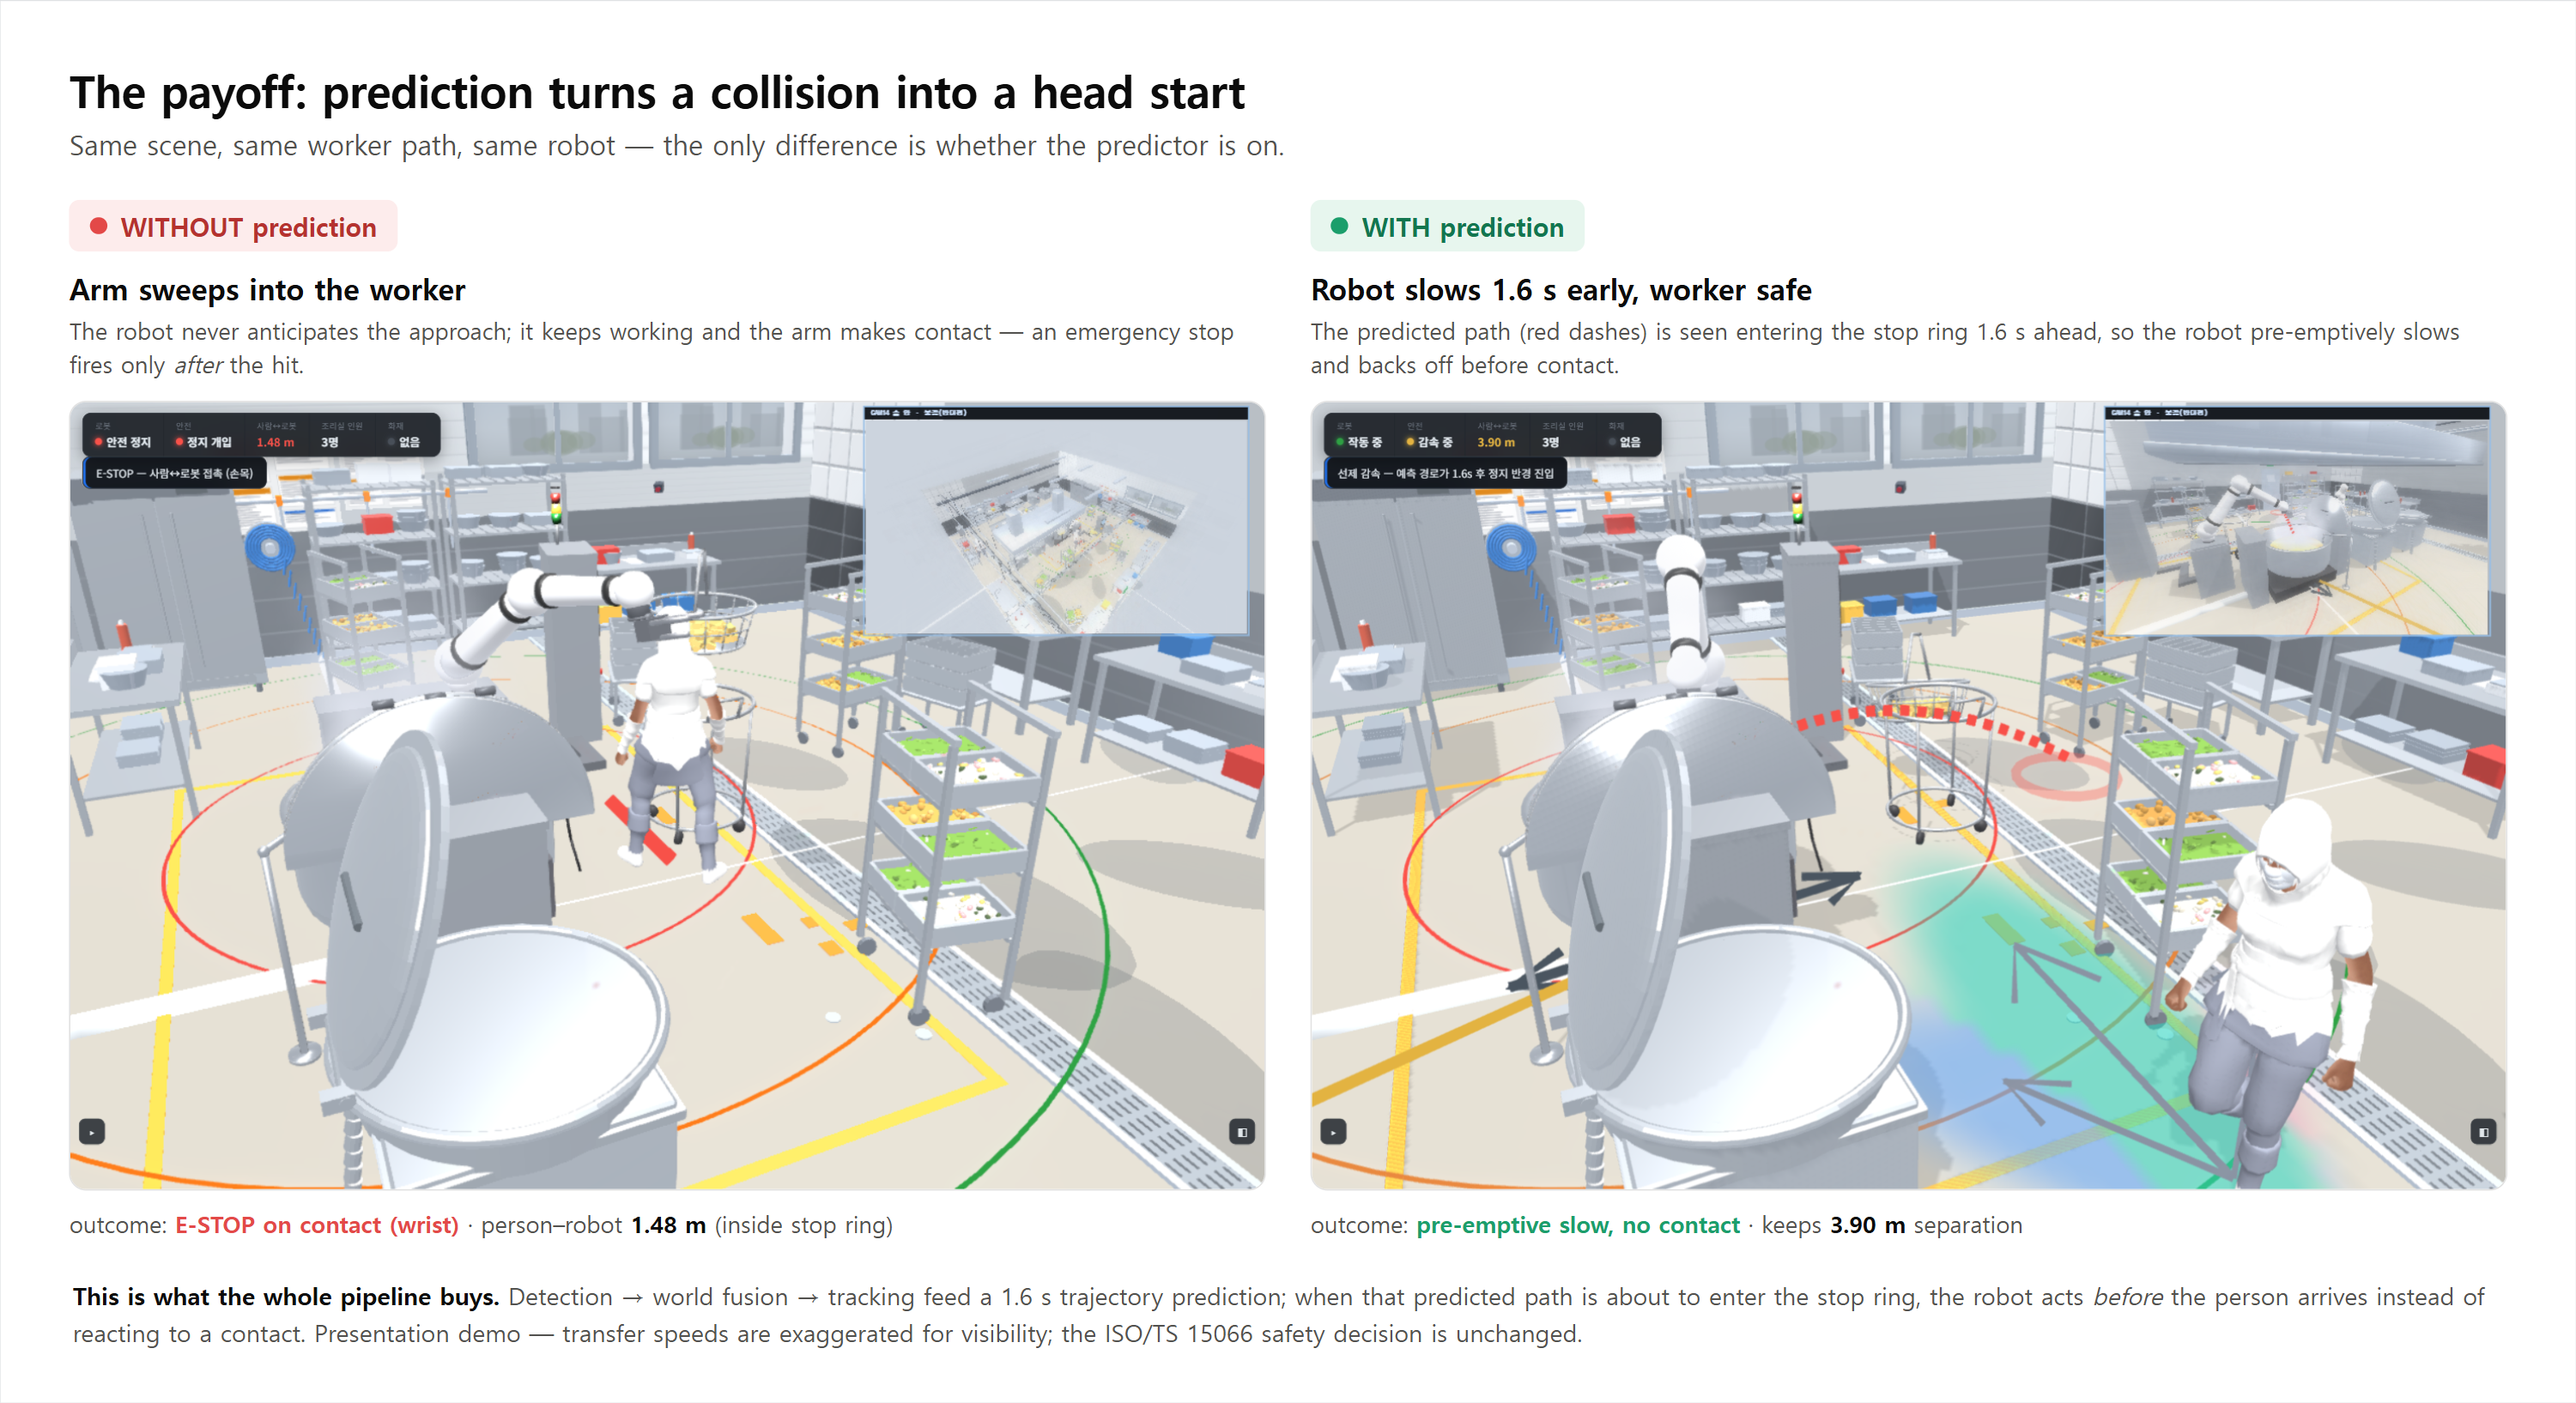
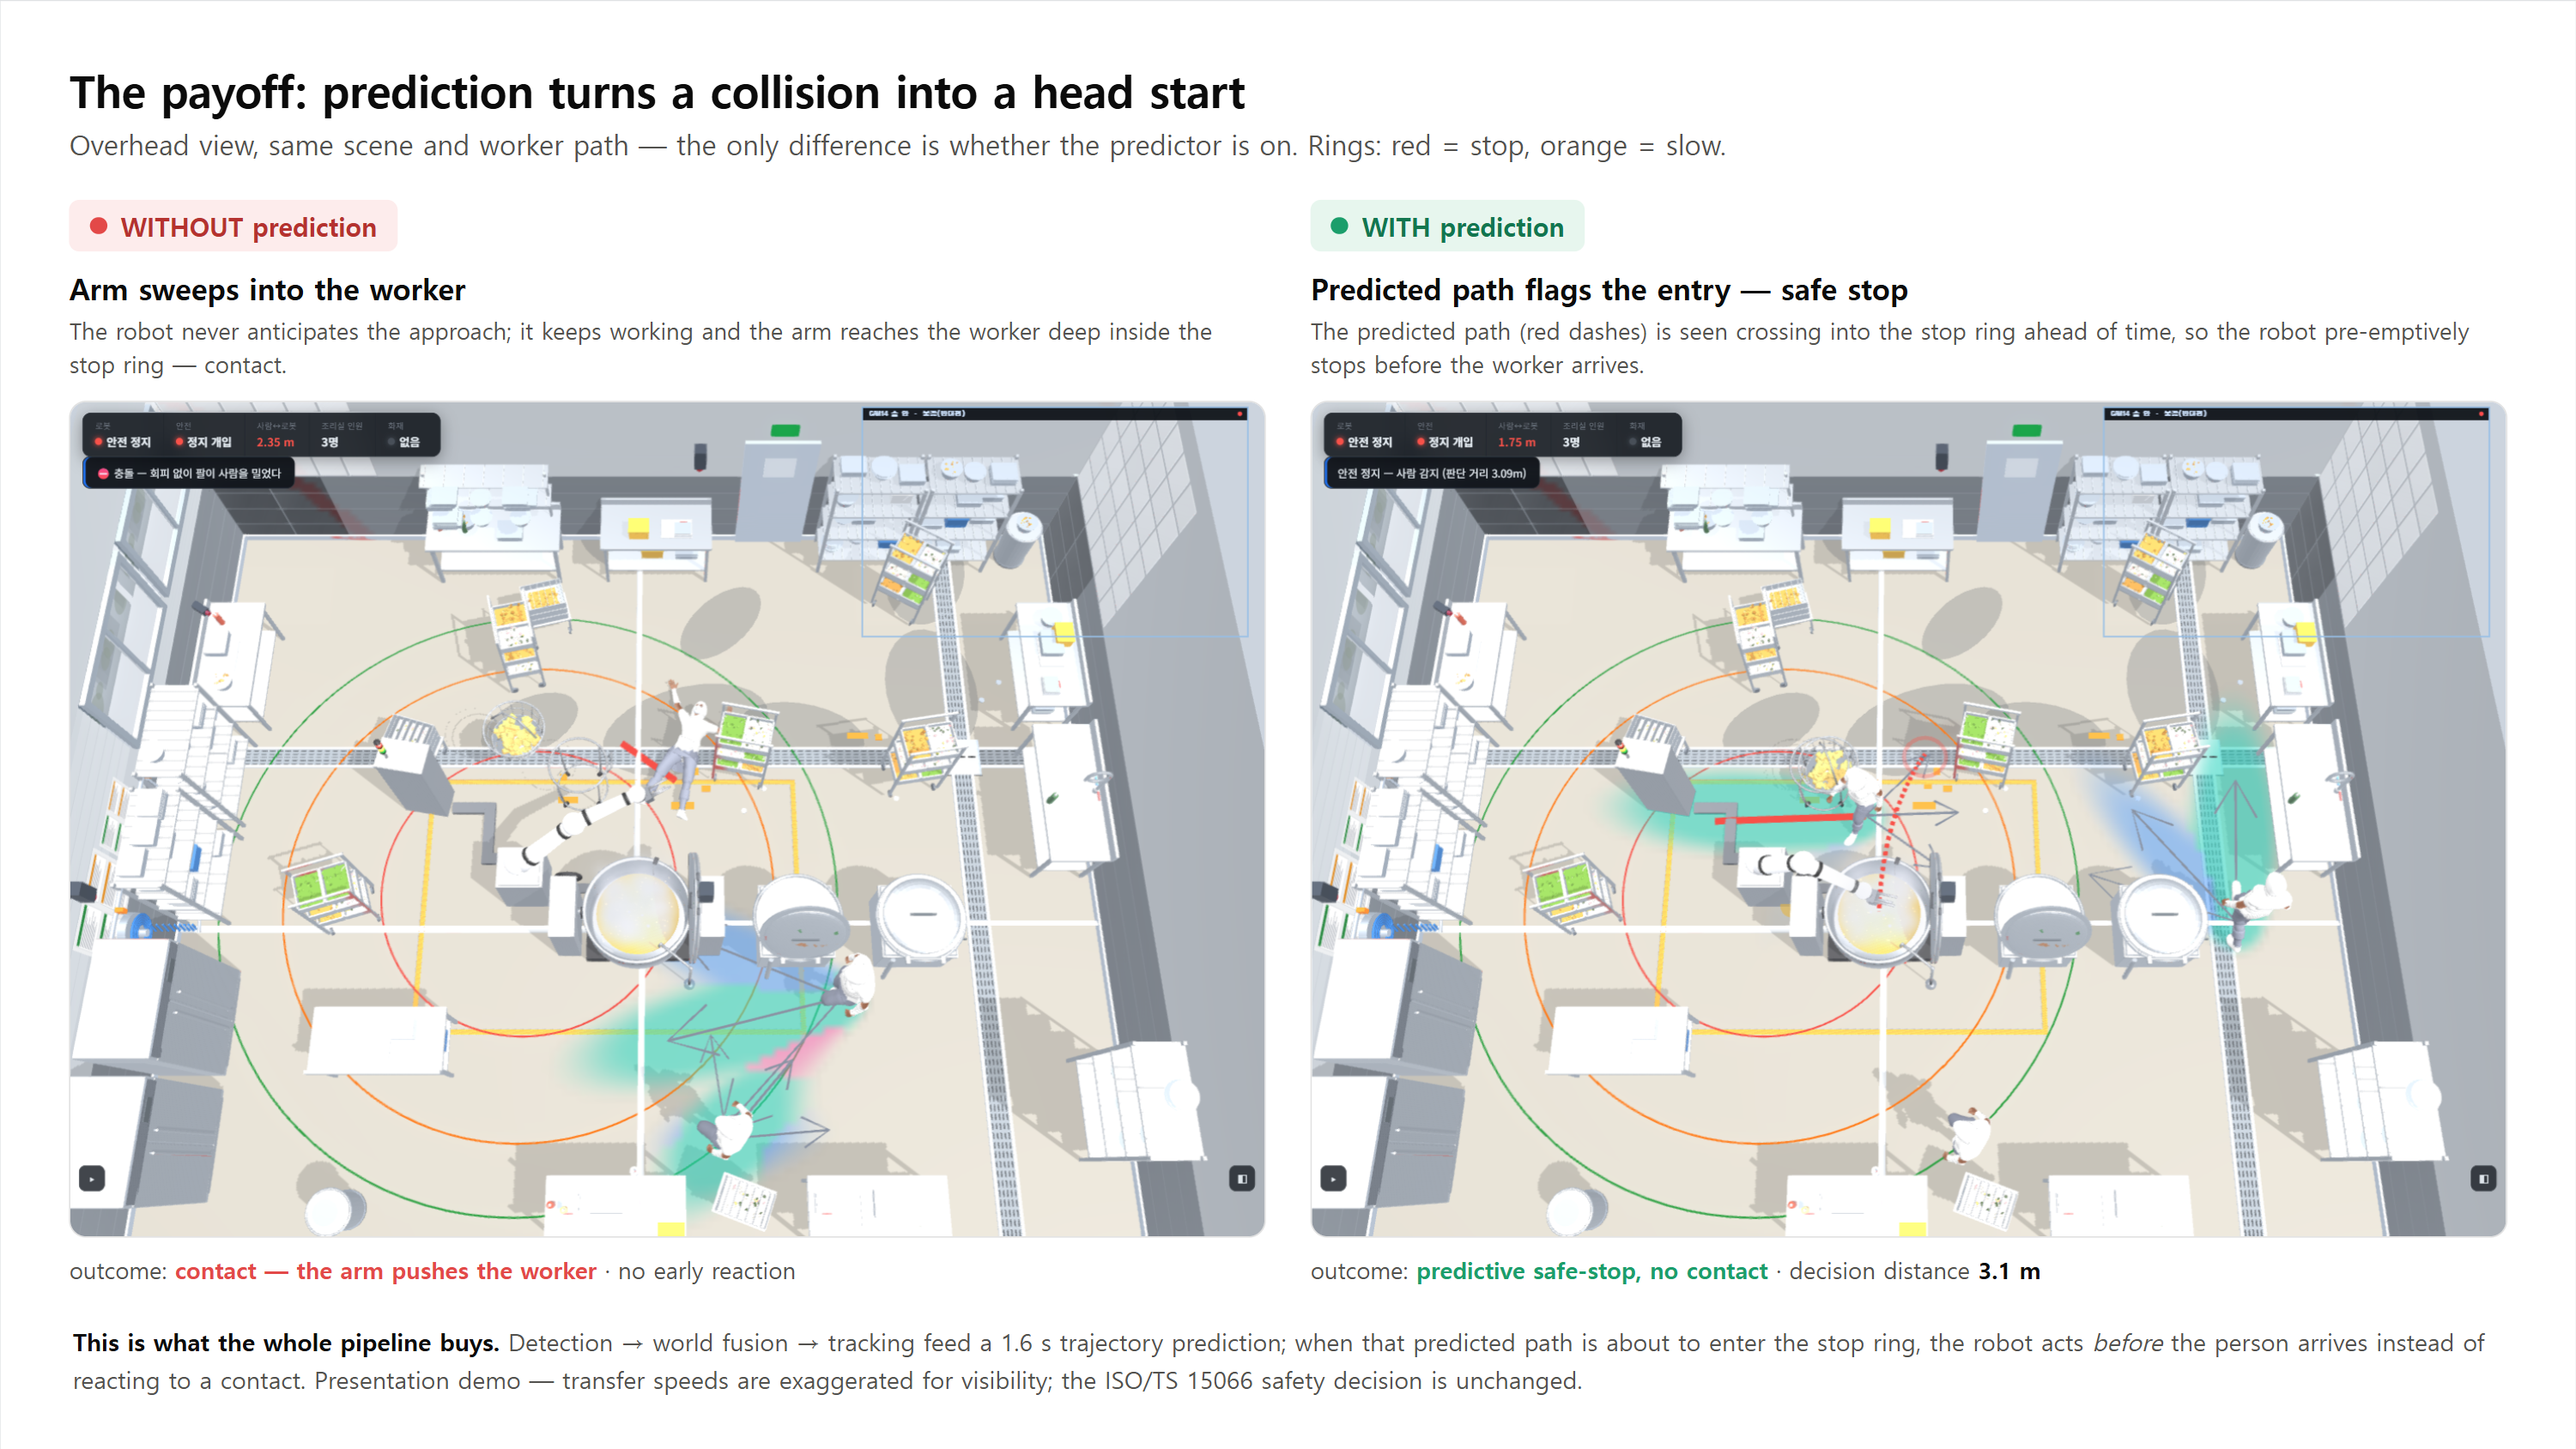
docs: fig8 충돌 vs 회피 → 오버헤드 탑뷰로 교체
사선 CCTV 컷을 탑다운으로 재촬영: 안전링(정지/감속) 동심원 + 회피 쪽
예측 경로(빨간 점선)가 선명. 자유 카메라를 매 프레임 고정해 데모 중 탑뷰 유지.
사선 소스프레임 제거, 탑뷰 소스로 교체.

diff --git a/docs/chanwoo/assets/pipeline/fig8.html b/docs/chanwoo/assets/pipeline/fig8.html
@@ -12,7 +12,7 @@
    padding:5px 12px;border-radius:6px;margin-bottom:10px}
  .bad{background:#fdecec;color:#b5322f} .good{background:#e7f6ee;color:#12764f}
  .dot{width:10px;height:10px;border-radius:50%;display:inline-block}
- .well{width:100%;aspect-ratio:1379/911;border-radius:10px;overflow:hidden;border:1px solid rgba(11,11,11,.12)}
+ .well{width:100%;aspect-ratio:1379/965;border-radius:10px;overflow:hidden;border:1px solid rgba(11,11,11,.12)}
  .well img{width:100%;height:100%;object-fit:cover;display:block}
  .cname{font-size:17px;font-weight:700;margin:0 0 3px}
  .cdesc{font-size:13.5px;color:var(--ink2);margin:0 0 12px;line-height:1.45;min-height:38px}
@@ -23,23 +23,23 @@
 </style></head><body>
 <section id="fig8">
  <h2 class="figtitle">The payoff: prediction turns a collision into a head start</h2>
- <p class="figsub">Same scene, same worker path, same robot &mdash; the only difference is whether the predictor is on.</p>
+ <p class="figsub">Overhead view, same scene and worker path &mdash; the only difference is whether the predictor is on. Rings: red&nbsp;=&nbsp;stop, orange&nbsp;=&nbsp;slow.</p>
  <div class="cols">
 
   <div class="col">
    <span class="badge bad"><span class="dot" style="background:var(--red)"></span>WITHOUT prediction</span>
    <div class="cname">Arm sweeps into the worker</div>
-   <div class="cdesc">The robot never anticipates the approach; it keeps working and the arm makes contact &mdash; an emergency stop fires only <i>after</i> the hit.</div>
-   <div class="well"><img src="src_collision.png" alt="collision"></div>
-   <div class="stat">outcome: <b style="color:var(--red)">E-STOP on contact (wrist)</b> &middot; person&ndash;robot <b>1.48 m</b> (inside stop ring)</div>
+   <div class="cdesc">The robot never anticipates the approach; it keeps working and the arm reaches the worker deep inside the stop ring &mdash; contact.</div>
+   <div class="well"><img src="src_top_collision.png" alt="collision"></div>
+   <div class="stat">outcome: <b style="color:var(--red)">contact &mdash; the arm pushes the worker</b> &middot; no early reaction</div>
   </div>
 
   <div class="col">
    <span class="badge good"><span class="dot" style="background:var(--green)"></span>WITH prediction</span>
-   <div class="cname">Robot slows 1.6&nbsp;s early, worker safe</div>
-   <div class="cdesc">The predicted path (red dashes) is seen entering the stop ring 1.6&nbsp;s ahead, so the robot pre-emptively slows and backs off before contact.</div>
-   <div class="well"><img src="src_avoid.png" alt="avoidance"></div>
-   <div class="stat">outcome: <b style="color:var(--green)">pre-emptive slow, no contact</b> &middot; keeps <b>3.90 m</b> separation</div>
+   <div class="cname">Predicted path flags the entry &mdash; safe stop</div>
+   <div class="cdesc">The predicted path (red dashes) is seen crossing into the stop ring ahead of time, so the robot pre-emptively stops before the worker arrives.</div>
+   <div class="well"><img src="src_top_avoid.png" alt="avoidance"></div>
+   <div class="stat">outcome: <b style="color:var(--green)">predictive safe-stop, no contact</b> &middot; decision distance <b>3.1 m</b></div>
   </div>
 
  </div>
